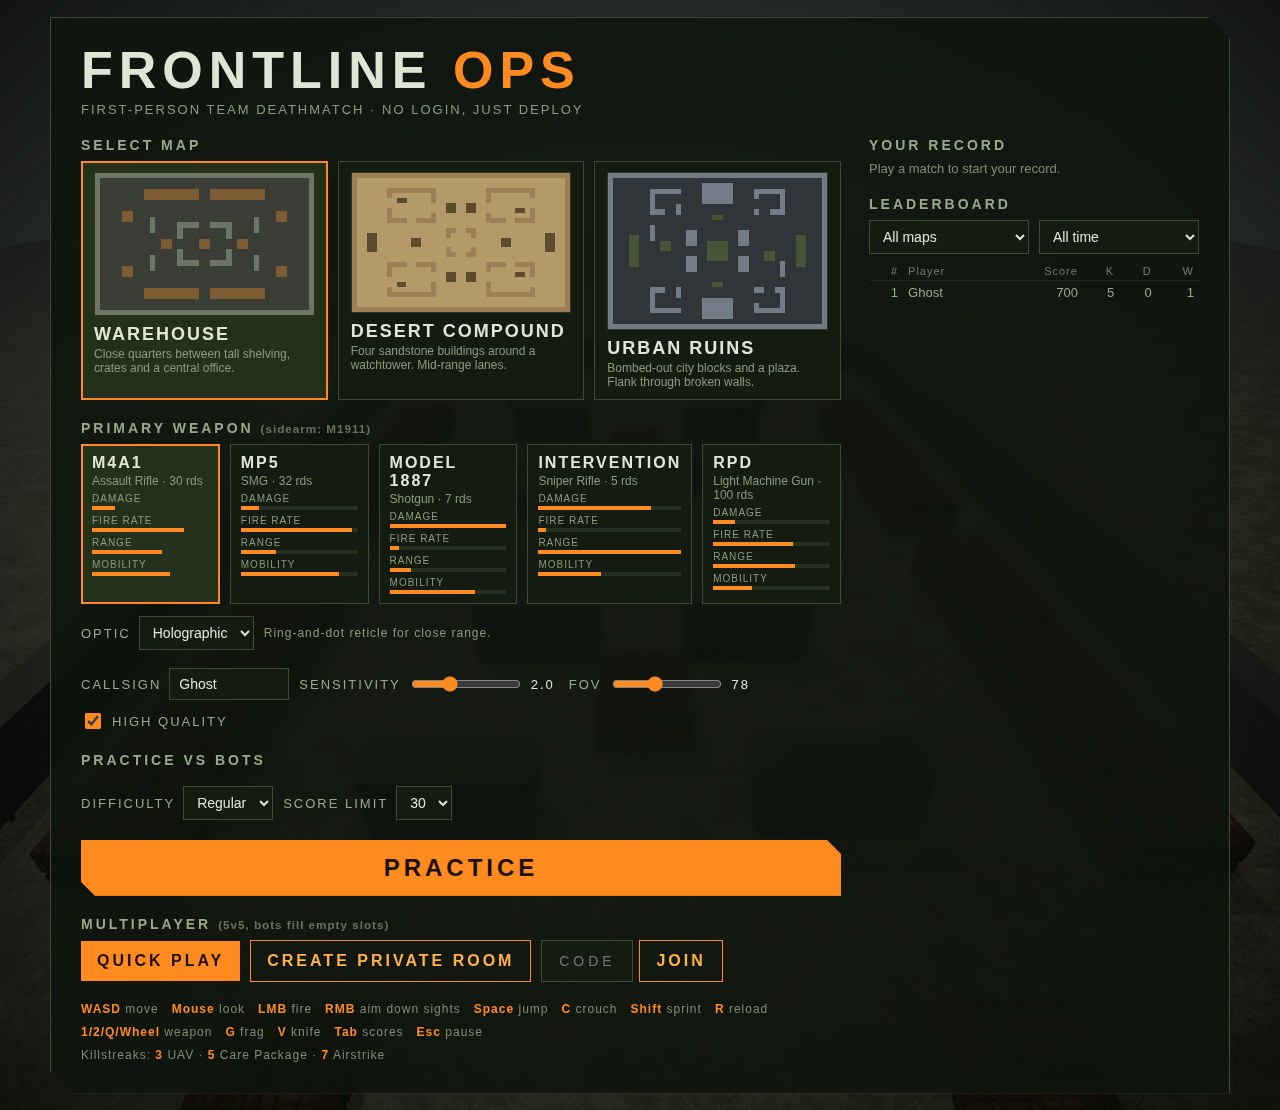
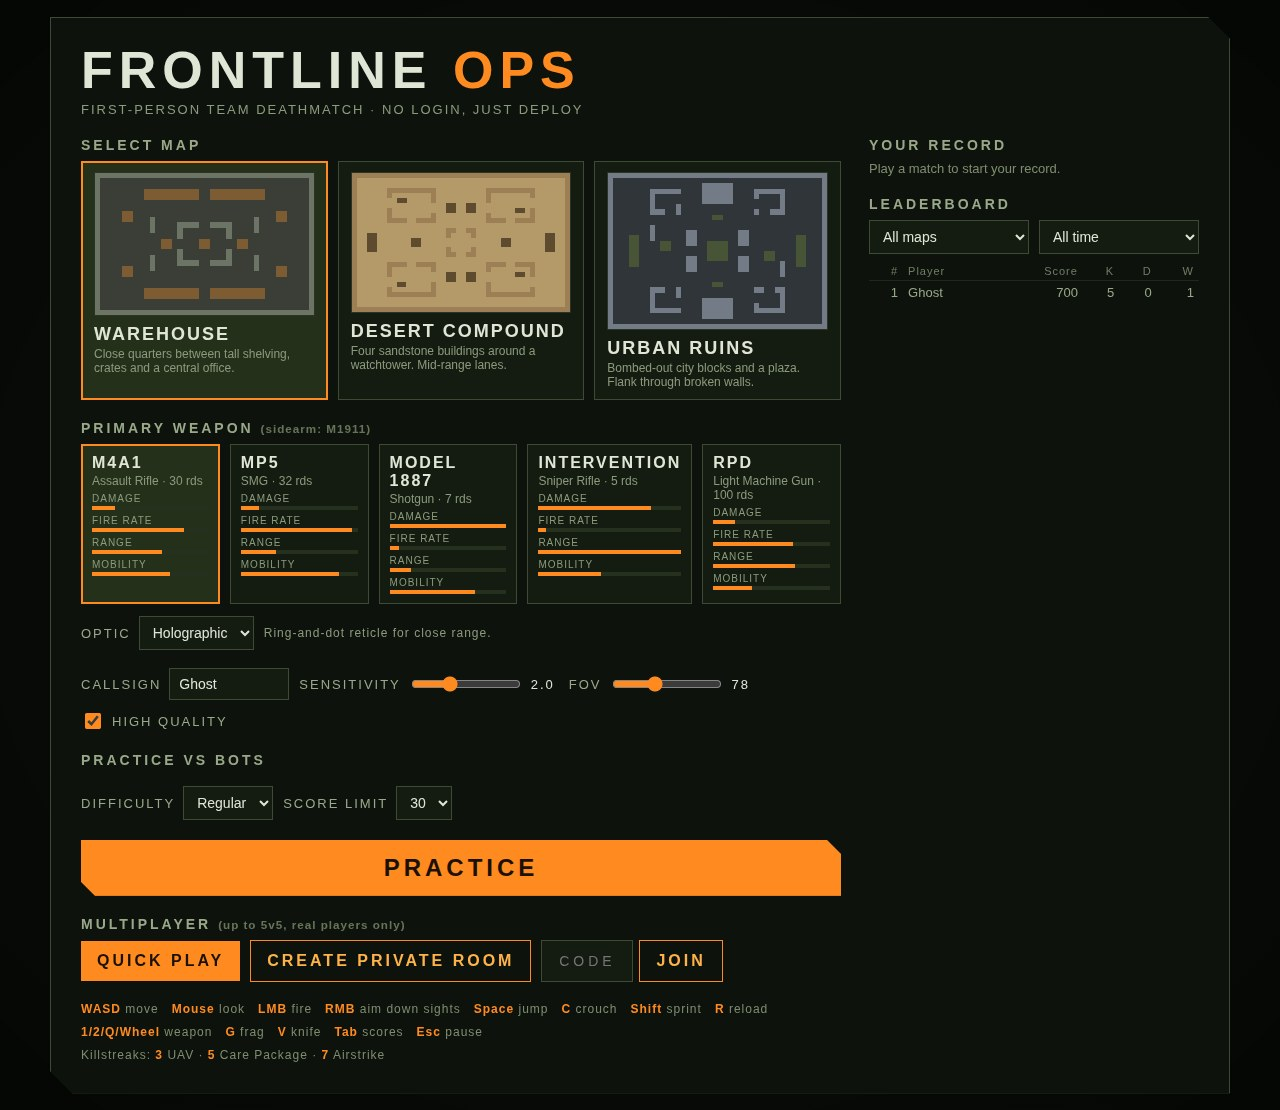
Online rooms: real players only, with a waiting screen and room code
- No bots in Quick Play or private rooms. The match clock waits until
  both teams have a player, and everyone sees the start banner when it
  begins.
- While waiting, the screen shows the room's random 5-letter code. The
  pause menu shows it too, with a Copy button that also works over plain
  http on a network address.
- If people leave and the teams differ by two, the latest player to
  join the bigger team moves over and respawns there.
- README, developer notes and the menu screenshot updated.

diff --git a/gameserver/room.js b/gameserver/room.js
@@ -11,7 +11,10 @@ const MAX_QUEUE = 30;             // buffered commands per player
 const BUDGET = 6;                 // commands a player may catch up on in one tick; refills one per tick (no speed hacks)
 const REWIND = 0.6;               // furthest back lag compensation will look (seconds)
 
-/** One room: a match that runs continuously, rotating maps, with humans joining and leaving and bots filling gaps. */
+/**
+ * One room: a match that runs continuously, rotating maps, with players joining and leaving. Online rooms are
+ * players only: the clock waits until both teams have someone, and the teams are kept within one player of each other.
+ */
 export class Room {
   constructor({ code, isPrivate, data, onResults, onEmpty }) {
     Object.assign(this, { code, isPrivate, data, onResults, onEmpty });
@@ -27,6 +30,12 @@ export class Room {
 
   get full() { return this.clients.size >= MAX_HUMANS; }
 
+  // Both teams have at least one player, so the match can run.
+  get ready() {
+    const teams = new Set(this.M.actors.map(a => a.team));
+    return teams.has('blue') && teams.has('red');
+  }
+
   newMatch() {
     const map = this.data.maps[this.mapIndex % this.data.maps.length];
     this.M = new Match(this.data, { map: map.slug, limit: this.data.match.defaultScoreLimit, difficulty: 1, lagComp: true });
@@ -34,8 +43,8 @@ export class Room {
       c.actor = this.M.addHuman(c.name, this.M.teamForNewHuman(), c.primary, c.playerId, c.optic);
       c.queue.length = 0;
     }
-    this.M.balanceBots(this.data.match.teamSize);
-    this.M.emit('start', {});
+    this.M.hold = !this.ready;
+    if (!this.M.hold) this.M.emit('start', {});
     this.intermission = 0;
     for (const c of this.clients) this.welcome(c, 'map');
   }
@@ -44,9 +53,28 @@ export class Room {
     const M = this.M;
     c.send({
       t: type, you: c.actor.id, code: this.isPrivate ? this.code : null, map: M.mapDef.slug, limit: M.limit, difficulty: M.difficulty,
-      time: M.time, left: M.left, roster: M.actors.map(rosterEntry), loadout: c.actor.loadout,
+      time: M.time, left: M.left, roster: M.actors.map(rosterEntry), loadout: c.actor.loadout, waiting: M.hold,
       over: M.over, intermission: Math.max(0, this.intermission),   // joining between matches
     });
+  }
+
+  // Start (or pause) the clock as players arrive and leave; everyone sees the start banner when it begins.
+  updateHold() {
+    const waiting = !this.ready;
+    if (waiting === this.M.hold) return;
+    this.M.hold = waiting;
+    if (!waiting) this.M.emit('start', {});
+  }
+
+  // When a leaver makes the teams uneven by two, the latest player to join the bigger team moves over and respawns there.
+  rebalance() {
+    const M = this.M, on = team => M.actors.filter(a => a.team === team);
+    for (let blue = on('blue'), red = on('red'); Math.abs(blue.length - red.length) > 1; blue = on('blue'), red = on('red')) {
+      const a = (blue.length > red.length ? blue : red).at(-1);
+      a.team = a.team === 'blue' ? 'red' : 'blue';
+      M.spawn(a);
+      M.emit('teamswap', { a, team: a.team });
+    }
   }
 
   broadcastRoster() {
@@ -59,7 +87,7 @@ export class Room {
     this.clients.add(c);
     c.room = this;
     c.actor = this.M.addHuman(c.name, this.M.teamForNewHuman(), c.primary, c.playerId, c.optic);
-    this.M.balanceBots(this.data.match.teamSize);   // a bot on that team makes room
+    this.updateHold();
     this.welcome(c);
     this.broadcastRoster();
     console.log(`room ${this.code}: ${c.name} joined (${this.clients.size} humans)`);
@@ -69,7 +97,10 @@ export class Room {
   leave(c) {
     if (!this.clients.delete(c)) return;
     if (c.actor) this.M.removeActor(c.actor);
-    this.M.balanceBots(this.data.match.teamSize);   // a bot takes the empty slot
+    if (this.intermission <= 0) {   // between matches the next map deals new teams anyway
+      this.rebalance();
+      this.updateHold();
+    }
     this.broadcastRoster();
     console.log(`room ${this.code}: ${c.name} left (${this.clients.size} humans)`);
     if (!this.clients.size) this.onEmpty(this);
@@ -127,7 +158,7 @@ export class Room {
     M.events = [];
     const shared = events.filter(e => !PERSONAL.has(e.type)).map(packEvent);
     const head = JSON.stringify({
-      t: 's', tm: Math.round(M.time * 1000) / 1000, lf: Math.round(M.left * 10) / 10, sc: [M.score.blue, M.score.red],
+      t: 's', tm: Math.round(M.time * 1000) / 1000, lf: Math.round(M.left * 10) / 10, wt: M.hold ? 1 : 0, sc: [M.score.blue, M.score.red],
       uv: [Math.ceil(M.uav.blue), Math.ceil(M.uav.red)], ac: M.actors.map(packActor), nd: M.nades.map(packNade),
       st: M.strikes.map(packStrike), pk: M.pickups.map(packPickup),
     }).slice(0, -1);

diff --git a/client/src/ui/hud.js b/client/src/ui/hud.js
@@ -96,6 +96,9 @@ export class Hud {
           this.banner = { text: e.a === me ? text : `FRIENDLY ${text}`, sub, t: 2.8 };
         }
         break;
+      case 'teamswap':
+        if (e.a === me) this.banner = { text: 'TEAMS BALANCED', sub: `A player left · you now fight for ${e.team === 'blue' ? 'the Rangers' : 'OPFOR'}`, t: 3.6 };
+        break;
       case 'pickup':
         if (e.a === me) e.kind === 'care' ? this.popup('FULL RESUPPLY', '#7dff6e') : this.popup('+AMMO', '#c9e08a');
         break;
@@ -190,6 +193,7 @@ export class Hud {
       c.globalAlpha = 1;
     }
     if (extra.message) this.text(extra.message, cx, H * 0.3, '#ffb347', 18, 'center');
+    if (M.waiting && !M.over) this.drawWaiting(extra.code);
     if (M.time < 12) {
       c.globalAlpha = Math.min(1, 12 - M.time);
       this.text('WASD move · Mouse look · LMB fire · RMB aim · Space jump · C crouch · Shift sprint · R reload · Q swap · G frag · V knife · Tab scores',
@@ -266,6 +270,20 @@ export class Hud {
     }
   }
 
+  // Online, until both teams have a player: the clock is stopped and the room code is up for sharing.
+  drawWaiting(code) {
+    const c = this.c, cx = this.W / 2, y = this.H * 0.36, h = code ? 112 : 70;
+    c.fillStyle = 'rgba(6,9,5,.78)';
+    c.fillRect(cx - 250, y, 500, h);
+    c.fillStyle = '#ff8a1f';
+    c.fillRect(cx - 250, y, 4, h);
+    this.text('WAITING FOR PLAYERS', cx, y + 34, '#ffb347', 26, 'center');
+    if (code) {
+      this.text(`ROOM CODE  ${code}`, cx, y + 70, '#f2f2ea', 24, 'center');
+      this.text('Friends type it next to JOIN in the menu  ·  Esc to copy it', cx, y + 96, '#98a889', 13, 'center', false);
+    } else this.text('The match starts when someone joins the other team', cx, y + 56, '#98a889', 14, 'center', false);
+  }
+
   drawScore(M) {
     const c = this.c, cx = this.W / 2, lim = M.limit, s = Math.max(0, Math.ceil(M.left));
     c.fillStyle = 'rgba(6,9,5,.72)';
@@ -273,7 +291,7 @@ export class Hud {
     this.text(M.score.blue, cx - 100, 48, '#4aa3ff', 36, 'center');
     this.text(M.score.red, cx + 100, 48, '#ff5347', 36, 'center');
     this.text(`${Math.floor(s / 60)}:${String(s % 60).padStart(2, '0')}`, cx, 40, s < 30 ? '#ff5347' : '#f2f2ea', 24, 'center');
-    this.text(`TDM · ${lim}`, cx, 56, '#8a9a7b', 11, 'center', false);
+    this.text(M.waiting ? 'WAITING' : `TDM · ${lim}`, cx, 56, M.waiting ? '#ffb347' : '#8a9a7b', 11, 'center', false);
     c.fillStyle = '#1f2b38'; c.fillRect(cx - 158, 60, 110, 3);
     c.fillStyle = '#4aa3ff'; c.fillRect(cx - 158, 60, 110 * Math.min(1, M.score.blue / lim), 3);
     c.fillStyle = '#3a1f1d'; c.fillRect(cx + 48, 60, 110, 3);

diff --git a/client/src/main.js b/client/src/main.js
@@ -199,7 +199,27 @@ function pause() {
   if (state !== 'play') return;
   state = 'paused';
   $('pause-note').textContent = session?.online ? 'The match keeps going while you are away' : '';
+  $('pause-code').textContent = session?.code || '';
+  show('pause-room', !!session?.code);
   show('pause', true);
+}
+
+// Copy the room code to share it. Plain http on a network address has no clipboard API, so fall back to a selection copy.
+async function copyCode() {
+  const code = session?.code, btn = $('copy-code');
+  if (!code) return;
+  let ok = true;
+  try {
+    await navigator.clipboard.writeText(code);
+  } catch {
+    const t = Object.assign(document.createElement('textarea'), { value: code });
+    document.body.append(t);
+    t.select();
+    ok = document.execCommand('copy');
+    t.remove();
+  }
+  btn.textContent = ok ? 'COPIED' : 'COPY FAILED';
+  setTimeout(() => { btn.textContent = 'COPY'; }, 1500);
 }
 
 function resume() {
@@ -233,6 +253,7 @@ addEventListener('resize', () => { view.resize(); hud.resize(); });
 $('gl').addEventListener('click', () => { if (state === 'play') input.lock(); });
 $('resume').onclick = resume;
 $('quit').onclick = toMenu;
+$('copy-code').onclick = copyCode;
 $('again').onclick = () => {
   if (session?.online) { show('end', false); state = 'play'; input.enabled = true; input.lock(); return; }
   practice();
@@ -267,7 +288,7 @@ function frame(now) {
   if (session && state !== 'menu') {
     const message = state !== 'play' ? '' : session.online && session.M.over ? `Next match starts in ${Math.ceil(session.wait)} s`
       : !input.locked && !session.me.dead ? 'Click to play' : '';
-    hud.draw(session.M, view, input.yaw, { message });
+    hud.draw(session.M, view, input.yaw, { message, code: session.code });
   } else hud.clear();
 
   const wantScore = !!session && state === 'play' && !!input.keys.Tab;

diff --git a/client/src/net.js b/client/src/net.js
@@ -69,12 +69,12 @@ export class NetSession {
     this.M = {
       data: this.data, weapons: this.data.weapons, mapDef: P.mapDef, world: P.world, limit: w.limit, timeLimit: this.data.match.timeLimit,
       actors: [], nades: [], strikes: [], pickups: [], score: { blue: 0, red: 0 }, uav: { blue: 0, red: 0 },
-      time: w.time, left: w.left, over: !!w.over, result: null,
+      time: w.time, left: w.left, over: !!w.over, result: null, waiting: !!w.waiting && !w.over,   // waiting: a team has nobody yet
       resultFor(team) { return this.result === 'draw' ? 'draw' : this.result === team ? 'win' : 'loss'; },
     };
     this.wait = w.over ? w.intermission : 0;   // seconds until the next match, when joining between matches
     this.applyRoster(w.roster);
-    if (!w.over) this.events.push({ type: 'start' });
+    if (!w.over && !w.waiting) this.events.push({ type: 'start' });
   }
 
   applyRoster(roster) {
@@ -82,7 +82,7 @@ export class NetSession {
     for (const r of roster) {
       ids.add(r.id);
       this.known.set(r.id, r);
-      if (r.id === this.me.id) continue;
+      if (r.id === this.me.id) { this.me.team = r.team; continue; }   // the server can move you to even the teams
       const a = this.actors.get(r.id);
       if (!a) this.actors.set(r.id, blankActor(r));
       else Object.assign(a, { name: r.name, team: r.team, isBot: r.bot });
@@ -136,6 +136,7 @@ export class NetSession {
     M.score.blue = s.sc[0]; M.score.red = s.sc[1];
     M.uav.blue = s.uv[0]; M.uav.red = s.uv[1];
     M.left = s.lf;
+    M.waiting = !!s.wt;
     M.strikes = s.st.map(unpackStrike);
     M.pickups = s.pk.map(unpackPickup);
     for (const p of s.ac) {

diff --git a/client/src/render/view.js b/client/src/render/view.js
@@ -128,6 +128,7 @@ export class GameView {
     this.M = M;
     this.me = me;
     this.vm.setTeam(me.team);
+    this.vmTeam = me.team;
   }
 
   detach() {
@@ -143,8 +144,10 @@ export class GameView {
 
   soldier(a) {
     let s = this.soldiers.get(a.id);
+    if (s && s.team !== a.team) { this.scene.remove(s.root); s.dispose(); s = null; }   // moved to the other team: new uniform
     if (!s) {
       s = this.assets.characters ? new Character(a, this.assets.characters) : new Soldier(a);
+      s.team = a.team;
       this.scene.add(s.root);
       this.soldiers.set(a.id, s);
     }
@@ -227,6 +230,7 @@ export class GameView {
       if (this.soldiers.size > M.actors.length)
         for (const [id, s] of this.soldiers) if (!M.actors.some(a => a.id === id)) { this.scene.remove(s.root); s.dispose(); this.soldiers.delete(id); }
       for (const a of M.actors) this.soldier(a).update(dt, time, a !== me || a.dead);
+      if (me.team !== this.vmTeam) { this.vm.setTeam(me.team); this.vmTeam = me.team; }
       this.syncPickups(M, dt, time);
       const w = M.weapons[me.wp[me.cur]?.id || 'ar'];
       if (!me.dead) {

diff --git a/client/index.html b/client/index.html
@@ -48,7 +48,7 @@
         </div>
         <button id="deploy" class="big">PRACTICE</button>
 
-        <h2>Multiplayer <small>(5v5, bots fill empty slots)</small></h2>
+        <h2>Multiplayer <small>(up to 5v5, real players only)</small></h2>
         <div class="row mp">
           <button id="quick" class="mid">QUICK PLAY</button>
           <button id="create" class="mid ghosty">CREATE PRIVATE ROOM</button>
@@ -83,6 +83,12 @@
   <div class="panel small">
     <h1>PAUSED</h1>
     <p id="pause-note" class="tag"></p>
+    <div id="pause-room" class="share hidden">
+      <span>Room code</span>
+      <b id="pause-code"></b>
+      <button id="copy-code" class="mid ghosty">COPY</button>
+      <small>Friends type this code next to JOIN in the menu.</small>
+    </div>
     <button id="resume" class="big">RESUME</button>
     <button id="quit" class="ghost">Quit to menu</button>
   </div>

diff --git a/client/src/styles.css b/client/src/styles.css
@@ -60,6 +60,10 @@ button:disabled{opacity:.55;cursor:wait}
 #code{width:92px;text-transform:uppercase;letter-spacing:4px;text-align:center}
 input[type=range]{width:110px;padding:0;accent-color:#ff8a1f}
 output{min-width:28px;color:#dfe6d6}
+.share{margin:16px 0 4px;padding:14px 12px;border:1px solid #3d4a34;background:#141b11}
+.share span{display:block;font-size:12px;letter-spacing:3px;color:#8a9a7b;text-transform:uppercase}
+.share b{display:block;margin:6px 0 12px;font-size:40px;letter-spacing:10px;color:#ffb347;user-select:text}
+.share small{display:block;margin-top:12px;font-size:12px;color:#7d8c6e;letter-spacing:1px}
 #room-code{position:fixed;left:16px;bottom:130px;z-index:2;padding:6px 10px;background:rgba(6,9,5,.7);border:1px solid #3d4a34;
   color:#ffb347;font-size:13px;letter-spacing:3px}
 .help{margin-top:16px;font-size:12px;line-height:1.9;color:#7d8c6e;letter-spacing:1px}

diff --git a/shared/match.js b/shared/match.js
@@ -46,6 +46,7 @@ export class Match {
     this.uav = { blue: 0, red: 0 };
     this.time = 0;
     this.left = this.timeLimit;
+    this.hold = false;   // online rooms set this while a team has nobody: the clock waits
     this.over = false;
     this.result = null;
     this.nextId = 1;
@@ -424,7 +425,7 @@ export class Match {
   tick(dt = TICK) {
     if (this.over) return;
     this.time += dt;
-    this.left -= dt;
+    if (!this.hold) this.left -= dt;
     for (const a of this.actors) {
       if (a.dead) {
         if ((a.respawn -= dt) <= 0) this.spawn(a);

diff --git a/README.md b/README.md
@@ -12,7 +12,7 @@
 
 Frontline Ops is a fast, Call of Duty–style shooter. Two teams of five, **Rangers** and **OPFOR**, fight across three maps. The first team to reach the score limit wins. Pick a callsign, choose your gun and its optic, and deploy.
 
-- Play **offline against bots** to practise, or **online with friends**. Bots fill any empty slots, so a match is always full.
+- Play **offline against bots** to practise, or **online with friends**. Online matches are real players only, with no bots.
 - Every soldier is a fully animated human: they run, crouch, aim, reload and fall.
 - Your health comes back if you stay out of the fight for a few seconds.
 - Kill streaks earn rewards, and your results go on a **leaderboard**.
@@ -53,10 +53,10 @@ Your profile is remembered by your browser, so there's nothing to sign up for.
 | Mode | What it is |
 | --- | --- |
 | **Practice** | You and 4 bot teammates against 5 bots. Choose Recruit, Regular or Veteran bots and a score limit of 15, 30 or 50. |
-| **Quick Play** | Join a public online 5v5 match straight away. Bots fill the empty slots and step aside as people join. |
-| **Private room** | Press **Create private room** to get a 5-letter code. Friends type it next to **Join** to play in the same match. |
+| **Quick Play** | Join a public online match straight away, up to 5v5. Real players only: the match starts once someone is on each team. |
+| **Private room** | Press **Create private room** to get a random 5-letter code. It's on your screen while you wait, and in the pause menu (**Esc**) with a **Copy** button. Friends type it next to **Join** to play in the same match. Real players only. |
 
-A match ends when a team reaches the score limit or the 8-minute clock runs out. Online matches then move on to the next map after a short break.
+A match ends when a team reaches the score limit or the 8-minute clock runs out. Online, the clock only runs while both teams have a player. If people leave and one team ends up two or more players bigger, a player from that team moves to the other side. Online matches then move on to the next map after a short break.
 
 ## Maps
 

diff --git a/docs/DEVELOPMENT.md b/docs/DEVELOPMENT.md
@@ -34,6 +34,8 @@ browser ──HTTP──> nginx :8080 ──> Django + gunicorn ──> PostgreS
   - Other players are interpolated 100 ms in the past.
   - Hits use lag compensation: targets are rewound up to 0.6 s.
   - A token bucket stops command flooding.
+  - Rooms are players only. The match clock holds (`Match.hold`) until both teams have someone. If leavers make the teams differ by two, the latest player to join the bigger team moves over and respawns.
+  - Private room codes are 5 random characters from `crypto.randomInt`, without look-alikes such as 0/O and 1/I.
 - **Results:** online results go from the game server to Django over the private network, with a shared key. nginx blocks `/api/internal/` from outside. Practice results come from the browser and are plausibility-checked.
 - **Optics:** defined in `server/game/gamedata.py`. They affect the zoom, reticle and gun model; the server validates each player's choice.
 
